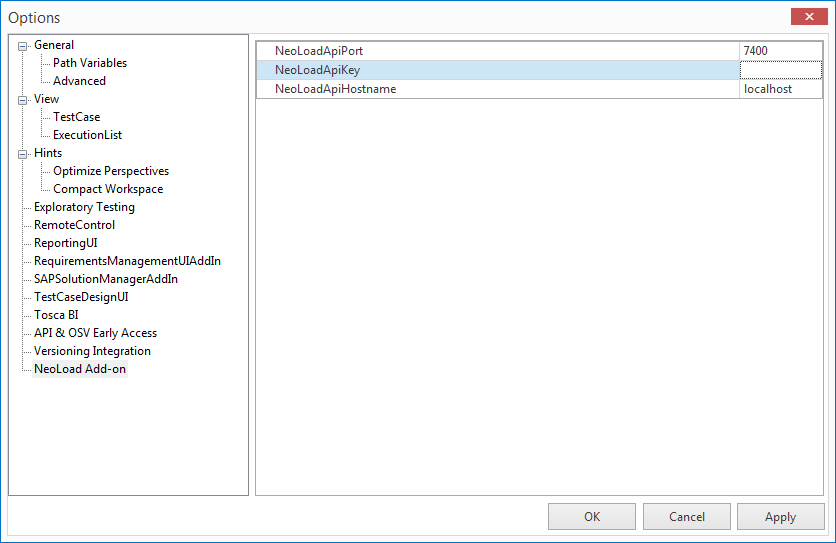
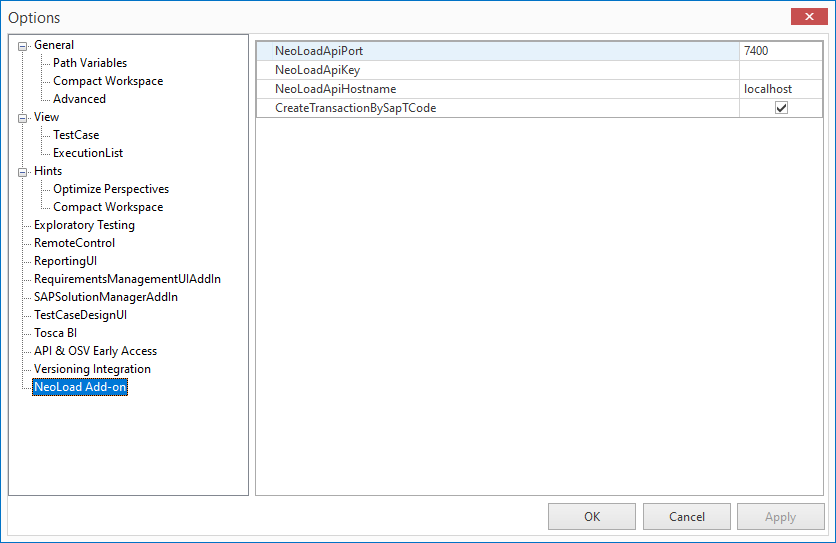
Update Readme

diff --git a/README.md b/README.md
@@ -4,104 +4,29 @@
 
 ## Overview
 
-C# extension to integrate [Tricentis Tosca](https://www.tricentis.com/) with [NeoLoad](https://www.neotys.com/neoload/overview) for SAP GUI Script maintenance.
-It allows you to interact with the NeoLoad [Design API](https://www.neotys.com/documents/doc/neoload/latest/en/html/#11265.htm) to convert a Tricentis Tosca SAP GUI script to a NeoLoad SAP GUI User Path or update an existing SAP User Path.
+C# extension to integrate [Tricentis Tosca](https://www.tricentis.com/) with [NeoLoad](https://www.neotys.com/neoload/overview) for SAP GUI and Web Script maintenance.
+It allows you to interact with the NeoLoad [Design API](https://www.neotys.com/documents/doc/neoload/latest/en/html/#11265.htm) to convert a Tricentis Tosca SAP GUI or Web script to a NeoLoad User Path or update an existing User Path.
 
 
 
 | Property | Value |
 | ----------------    | ----------------   |
-| Maturity | Experimental |
+| Maturity | Stable |
 | Author | Neotys |
 | License           | [BSD 2-Clause "Simplified"](https://github.com/Neotys-Labs/Tricentis-Tosca/blob/master/LICENSE) |
 | NeoLoad Licensing | License FREE edition, or Enterprise edition, or Professional with Integration & Advanced Usage|
-| Supported versions | Tested with Tricentis Tosca version 11.3, 12.0 and 12.2 and NeoLoad from version [6.6.0](https://www.neotys.com/support/download-neoload) version 32 bits
+| Supported versions | Tested with Tricentis Tosca version 11.3, 12.0, 12.2, 12.3, 13.0 and NeoLoad from version [6.6.0](https://www.neotys.com/support/download-neoload) version 32 bits
 | Download Binaries | See the [latest release](https://github.com/Neotys-Labs/Tricentis-Tosca/releases/latest)|
 
 ## Setting up the NeoLoad Tricentis Tosca Add-on
 
-### For Tosca version 12.2
-
-1. Download the [latest release](https://github.com/Neotys-Labs/Tricentis-Tosca/releases/latest).
-
-2. Unzip it in the Tosca Commander directory of the Tricentis Tosca installation directory (for example: C:\Program Files (x86)\TRICENTIS\Tosca Testsuite\ToscaCommander).
-
-3. Unzip it in the TBox directory of the Tricentis Tosca installation directory (for example: C:\Program Files (x86)\TRICENTIS\Tosca Testsuite\TBox).
-
-4. Unblock the "ToscaCommander\NeoLoadAddOn.dll" file (Right click the DLL > Properties and tick **Unblock**).
-
-5. Copy the "TCAddOn.dll" file from Tosca Commander directory to TBox directory in the installation directory.
-
-6. Unblock the "TBox\NeoLoadAddOn.dll" file (Right click the DLL > Properties and tick **Unblock**).
-
-7. Edit the file **TBox\Tricentis.Automation.Agent.exe.config** in the installation directory of Tricentis Tosca:
-
-* Add the following nodes at the end of the **runtime** node:
-```xml
-    <assemblyBinding xmlns="urn:schemas-microsoft-com:asm.v1">
-        <dependentAssembly>
-            <assemblyIdentity name="Microsoft.Data.Edm" publicKeyToken="31bf3856ad364e35" culture="neutral" />
-            <bindingRedirect oldVersion="0.0.0.0-5.8.4.0" newVersion="5.8.4.0" />
-    	 </dependentAssembly>
-    </assemblyBinding>
-    <assemblyBinding xmlns="urn:schemas-microsoft-com:asm.v1">
-        <dependentAssembly>
-            <assemblyIdentity name="Microsoft.Data.Odata" publicKeyToken="31bf3856ad364e35" culture="neutral" />
-            <bindingRedirect oldVersion="0.0.0.0-5.8.4.0" newVersion="5.8.4.0" />
-        </dependentAssembly>
-    </assemblyBinding>
-    <assemblyBinding xmlns="urn:schemas-microsoft-com:asm.v1">
-        <dependentAssembly>
-            <assemblyIdentity name="Microsoft.OData.Core" publicKeyToken="31bf3856ad364e35" culture="neutral" />
-            <bindingRedirect oldVersion="0.0.0.0-6.14.0.0" newVersion="6.14.0.0" />
-    		<bindingRedirect oldVersion="6.15.0.0-7.3.0.0" newVersion="7.3.0.0" />
-    		<codeBase version="6.14.0.0" href="nl-lib\Microsoft.OData.Core.dll" />
-            <codeBase version="7.3.0.0" href="Microsoft.OData.Core.dll" />
-        </dependentAssembly>
-    </assemblyBinding>
-    <assemblyBinding xmlns="urn:schemas-microsoft-com:asm.v1">
-        <dependentAssembly>
-            <assemblyIdentity name="System.Spatial" publicKeyToken="31bf3856ad364e35" culture="neutral" />
-            <bindingRedirect oldVersion="0.0.0.0-5.8.4.0" newVersion="5.8.4.0" />
-        </dependentAssembly>
-    </assemblyBinding>
-```
-8. Relaunch the Tosca Commander.
-
-### For Tosca version 11.3 and 12.0
-
-1. Download the [latest release](https://github.com/Neotys-Labs/Tricentis-Tosca/releases/latest)
+1. Download the [latest release](https://github.com/Neotys-Labs/Tricentis-Tosca/releases/latest) for your Tricentis Tosca version.
 
 2. Unzip it in the root folder of the Tricentis Tosca installation directory (for example: C:\Program Files (x86)\TRICENTIS\Tosca Testsuite\).
 
-3. Unblock the "NeoLoadAddOn.dll" file (Right click the DLL > Properties and tick **Unblock**).
+3. Relaunch the Tosca Commander.
 
-4. Edit the file **Tricentis.Automation.Agent.exe.config** in the installation directory of Tricentis Tosca:
-
-* In the following node, replace **0.0.0.0-5.8.1.0** by **0.0.0.0-5.8.4.0**:
-```xml
-    <dependentAssembly>
-        <assemblyIdentity name="Microsoft.Data.Edm" publicKeyToken="31bf3856ad364e35" culture="neutral" />
-        <bindingRedirect oldVersion="0.0.0.0-5.8.1.0" newVersion="5.8.1.0" />
-    </dependentAssembly>
-```
-* Add the following nodes at the end of the **assemblyBinding** node:
-```xml
-    <dependentAssembly>
-        <assemblyIdentity name="Microsoft.OData.Core" publicKeyToken="31bf3856ad364e35" culture="neutral" />
-        <bindingRedirect oldVersion="0.0.0.0-6.14.0.0" newVersion="6.14.0.0" />
-		<bindingRedirect oldVersion="6.15.0.0-7.3.0.0" newVersion="7.3.0.0" />
-		<codeBase version="6.14.0.0" href="nl-lib\Microsoft.OData.Core.dll" />
-        <codeBase version="7.3.0.0" href="Microsoft.OData.Core.dll" />
-     </dependentAssembly>
-	 <dependentAssembly>
-        <assemblyIdentity name="System.Spatial" publicKeyToken="31bf3856ad364e35" culture="neutral" />
-        <bindingRedirect oldVersion="0.0.0.0-5.8.4.0" newVersion="5.8.1.0" />
-     </dependentAssembly>
-```
-5. Relaunch the Tosca Commander.
-
-**Warning**: You might need to launch both Tosca and SAP Logon as administrator in order to convert the Tosca Script to NeoLoad.
+**Warning**: For SAP test case, you might need to launch both Tosca and SAP Logon as administrator in order to convert the Tosca Script to NeoLoad.
 
 ## Global Configuration
 
@@ -113,13 +38,16 @@ Parameters:
 * **NeoLoadApiPort**: The port of the NeoLoad API, by default it is 7400. 
 * **NeoLoadApiKey**: The API Key specified in the NeoLoad project when identification is required. If no identification is required, this parameter can be left blank.
 * **NeoLoadApiHostname**: The hostname of the machine that contains NeoLoad, by default it is localhost. It should be localhost for SAP GUI test case.
+* **CreateTransactionBySapTCode**: Enable/Disable the creation of transaction in Neoload for each SAP TCode.
 
 To access these values, go to the NeoLoad **Preferences**, then the **Project settings** tab, then select the **REST API** category.
 <p align="center"><img src="/screenshots/designapi.png" alt="Design API" /></p>
 
-## How to convert a Tricentis Tosca SAP script to a NeoLoad SAP User Path or update an existing SAP User Path.
+## How to convert a Tricentis Tosca SAP or Web script to a NeoLoad SAP User Path or update an existing SAP or Web User Path.
 
-In Tricentis Tosca, right click on an execution of an SAP Test Case and then **NeoLoad Add-on > Transfer to NeoLoad**
+In Tricentis Tosca, right click on an execution of a Test Case and then **NeoLoad Add-on > Transfer to NeoLoad**
+Neoload begin the **SAP recording** at the first step named "SAP" or "SAP Login".
+Neoload begin the **Web recording** at the first step named "OpenUrl".
 
 <p align="center"><img src="/screenshots/transfertoneoload.png" alt="transfer" /></p>
 
@@ -128,9 +56,14 @@ The User Path Update feature merge the original User Path with a newer recording
 
 <p align="center"><img src="/screenshots/userpath.png" alt="user path" /></p>
 
-**Warning**: In Tosca 12.2, if Execution errors are not displayed in Tosca Commander, they can be found in the **neoload-add-on-error.txt** file located in your user profile directory. 
+**Warning**: In Tosca > 12.2, if Execution errors are not displayed in Tosca Commander, they can be found in the **neoload-add-on-error.txt** file located in your user profile directory. 
 
 ## ChangeLog
+
+* Version 2.0.0 (April 27, 2020): Stabilization.
+   * Support of Tosca version 13.0
+   * Support Web test case recording
+   * Create a new transaction in Neoload at each SAP TCode encountered during the recoding. This feature is available since Neoload 7.3
 
 * Version 1.0.0 (November 30, 2018): Initial release.
    * July 24, 2019: Support of Tosca version 12.2
